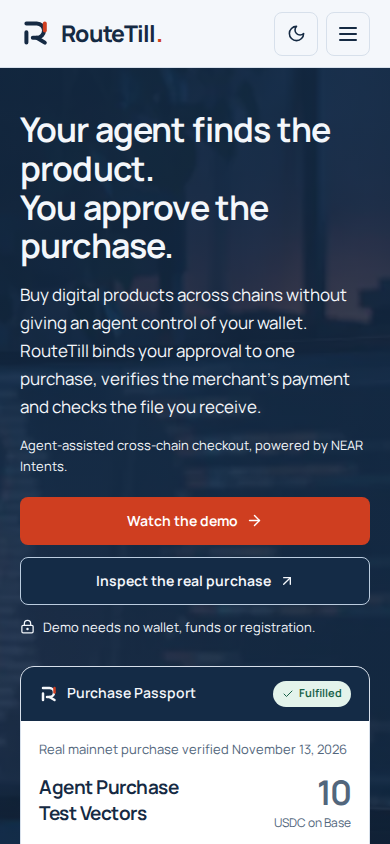
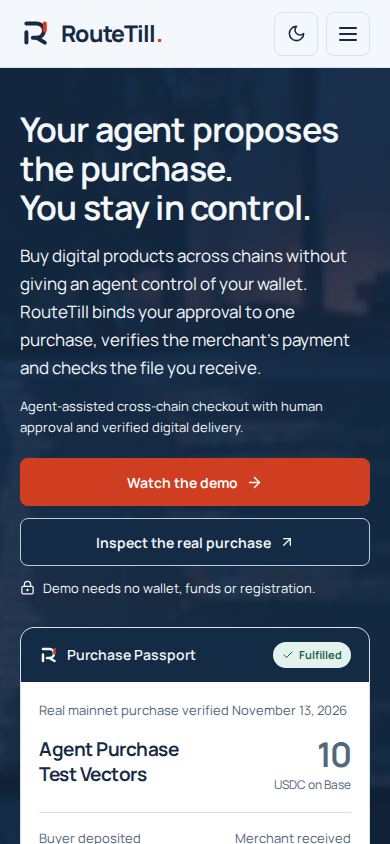
Refine purchase-control hero and prioritize judge quickstart

Changed region(s): [[0.0308, 0.1232, 0.9538, 1.0]]

diff --git a/src/app/page.tsx b/src/app/page.tsx
@@ -17,12 +17,12 @@ export default function Home(){
   ['Which wallets and routes are supported?','Direct injected Rabby, MetaMask and OKX support does not require WalletConnect. Compatible EIP-6963 providers can also be selected. The independently verified route is native Arbitrum USDC to native Base USDC. ETH gas is additional. Unrestricted live payment preparation remains disabled.']
  ];
  return <>
- <section className="hero-workspace"><Image className="workspace-image" src="/images/developer-workspace.webp" alt="" fill preload sizes="100vw"/><div className="hero container"><div className="hero-copy"><h1>Your agent finds the product.<br/>You approve the purchase.</h1><p>Buy digital products across chains without giving an agent control of your wallet. RouteTill binds your approval to one purchase, verifies the merchant’s payment and checks the file you receive.</p><p className="hero-descriptor">Agent-assisted cross-chain checkout, powered by NEAR Intents.</p><div className="actions"><Link className="button" href="/demo">Watch the demo<ArrowRight size={17}/></Link><Link className="button button-quiet" href={verifiedPurchase.passportUrl}>Inspect the real purchase<ArrowUpRight size={16}/></Link></div><p className="hero-note"><LockKeyhole size={15}/>Demo needs no wallet, funds or registration.</p><div className="hero-promise"><span>Precise human approval</span><span>Verified merchant receipt</span><span>One digital entitlement</span></div></div><VerifiedPassport/></div></section>
+ <section className="hero-workspace"><Image className="workspace-image" src="/images/developer-workspace.webp" alt="" fill preload sizes="100vw"/><div className="hero container"><div className="hero-copy"><h1>Your agent proposes the purchase.<br/>You stay in control.</h1><p>Buy digital products across chains without giving an agent control of your wallet. RouteTill binds your approval to one purchase, verifies the merchant’s payment and checks the file you receive.</p><p className="hero-descriptor">{positioning.definition}</p><div className="actions"><Link className="button" href="/demo">Watch the demo<ArrowRight size={17}/></Link><Link className="button button-quiet" href={verifiedPurchase.passportUrl}>Inspect the real purchase<ArrowUpRight size={16}/></Link></div><p className="hero-note"><LockKeyhole size={15}/>Demo needs no wallet, funds or registration.</p><div className="hero-promise"><span>Precise human approval</span><span>Verified merchant receipt</span><span>One digital entitlement</span></div></div><VerifiedPassport/></div></section>
  <div className="judge-quickstart container"><strong>Have 30 seconds?</strong><p>Explore a no-funds purchase, run five security checks, and inspect a real Purchase Passport.</p><Link href={checkoutHref} className="text-link">Start here<ArrowRight size={16}/></Link></div>
  <section className="container purchase-overview" aria-label="One purchase, from proposal to delivery"><h2>{positioning.promise}</h2><ol><li><strong>Agent proposes</strong><span>The merchant’s dataset and price.</span></li><li><strong>You authorize</strong><span>Exact terms, then a separate wallet confirmation.</span></li><li><strong>NEAR Intents routes</strong><span>Arbitrum USDC → Base USDC.</span></li><li><strong>RouteTill verifies</strong><span>Merchant receipt and matching file.</span></li><li><strong>Both sides receive</strong><span>Merchant paid; buyer gets access and Passport.</span></li></ol></section><section className="container product-section" id="how-it-works"><div className="section-title" data-proof-reveal><h2>Meet John</h2><p>An illustrative buyer, one purchase, two chains. See how John stays in control; inspect the separate recorded mainnet result below.</p></div><JohnStory/></section>
  <section className="container dataset-invitation"><div><p className="muted">Explore the actual product</p><h2>Agent Purchase Test Vectors</h2><p>A 1,613-byte developer dataset with seven original test cases. The merchant lists the file, sets the price and chooses a receiving wallet. The buyer controls the source-spending limit in the same purchase.</p></div><div><strong>10 USDC <span>on Base</span></strong><Link className="button" href={checkoutHref}>Try buyer checkout<ArrowRight size={16}/></Link><Link className="text-link" href="https://routetill.vercel.app/checkout/4c78ae96-c331-42ba-87a3-4445709c9f3d?mode=live">View the production product<ArrowUpRight size={15}/></Link><small>The public walkthrough uses no funds. General production payment preparation is disabled.</small></div></section><section className="verified-section" id="verified-purchase"><div className="container product-section"><div className="section-title" data-proof-reveal><h2>One real payment.<br/>Every step accounted for.</h2><p>This purchase was fulfilled on November 13, 2026. It is genuine mainnet evidence, separate from the explanatory scene animation and the no-funds security checks.</p></div><MainnetEvidence/></div></section>
  <section className="challenge-section" id="judge-challenge"><div className="container"><div className="section-title" data-proof-reveal><h2>Break-It Lab.<br/>Five checks. Clear outcomes.</h2><p>See how RouteTill protects purchase approvals, catches unauthorized changes and prevents duplicate delivery. No real funds are needed.</p></div><ChallengePreview labHref={labHref}/><div className="challenge-footnote"><span><ShieldCheck size={17}/>Actual policy and database handlers</span><span><LockKeyhole size={17}/>Controlled scenarios. No real funds.</span><Link className="text-link" href="/docs#judge-demo">How to reproduce the checks<ArrowUpRight size={15}/></Link></div></div></section>
- <section className="route-section"><div className="container route-section-inner"><div><h2>NEAR Intents moves the payment.<br/>RouteTill checks the receipt.</h2><p>The buyer and merchant do not need to hold funds on the same chain. An exact-output quote prepares the route. Only independently qualified merchant settlement permits delivery.</p><Link href="/docs#near" className="text-link">Inspect the NEAR Intents integration<ArrowUpRight size={16}/></Link></div><div className="route-map" data-proof-reveal aria-label="Verified Arbitrum USDC to Base USDC payment route"><div><span>Buyer’s source</span><strong>Arbitrum One</strong><p>Native USDC</p></div><div className="route-connector"><Route size={21}/><span>NEAR Intents</span><ArrowRight size={18}/></div><div><span>Merchant’s receipt</span><strong>Base</strong><p>Native USDC</p></div><p className="route-limit">One implemented verification route. Source ETH gas is additional. A quote alone is not settlement evidence.</p></div></div></section>
+ <section className="route-section"><div className="container route-section-inner"><div><h2>NEAR Intents moves the payment.<br/>RouteTill checks the receipt.</h2><p>The buyer and merchant do not need to hold funds on the same chain. NEAR Intents executes the supported native Arbitrum USDC → native Base USDC route. RouteTill independently checks the merchant’s payment and the matching digital artifact before delivery.</p><Link href="/docs#near" className="text-link">Inspect the NEAR Intents integration<ArrowUpRight size={16}/></Link></div><div className="route-map" data-proof-reveal aria-label="Verified Arbitrum USDC to Base USDC payment route"><div><span>Buyer’s source</span><strong>Arbitrum One</strong><p>Native USDC</p></div><div className="route-connector"><Route size={21}/><span>NEAR Intents</span><ArrowRight size={18}/></div><div><span>Merchant’s receipt</span><strong>Base</strong><p>Native USDC</p></div><p className="route-limit">One implemented verification route. Source ETH gas is additional. A quote alone is not settlement evidence.</p></div></div></section>
  <section className="container product-section" id="proofflow"><div className="section-title" data-proof-reveal><h2>Keep the file.<br/>Keep the evidence.</h2><p>Four connected checks protect one purchase. ProofFlow is RouteTill’s underlying verification engine; the Purchase Passport keeps its evidence inspectable.</p></div><div className="evidence-table-wrap" tabIndex={0} role="region" aria-label="Purchase evidence comparison; scroll horizontally on small screens"><table className="evidence-table"><thead><tr><th>What you can inspect</th><th>How to check it</th><th>What it establishes</th></tr></thead><tbody><tr><th scope="row">Only the purchase you approved</th><td>Exact seller, file, cap, refund address and deadline</td><td>Single-use application authorization; wallet transfer confirmed separately</td></tr><tr><th scope="row">The intended merchant gets paid</th><td>Provider outcome plus independent token receipt and finality checks</td><td>Provider SUCCESS alone cannot unlock delivery</td></tr><tr><th scope="row">Access to the agreed file</th><td>One durable entitlement and matching SHA-256</td><td>Repeat authorized downloads; exact bytes, not content quality</td></tr><tr><th scope="row">An inspectable Purchase Passport</th><td>Signed links between approval, payment evidence and file</td><td>Issuer record integrity; settlement still needs independent chain checks</td></tr></tbody></table></div><div className="evidence-actions"><p><ShieldCheck size={18}/>The real Passport passed all 12 independent verification checks.</p><Link className="text-link" href={verifiedPurchase.passportUrl}>Open the verified purchase<ArrowRight size={16}/></Link></div></section>
  <section className="container faq-section"><div><h2>Before you try it.</h2><p>Plain answers, with the limits included.</p></div><div className="faq-list">{faq.map(([question,answer])=><details key={question}><summary>{question}<span aria-hidden="true">+</span></summary><p>{answer}</p></details>)}</div></section>
  <section className="container final-invitation"><div><h2>See the checks.<br/>Inspect the proof.</h2><p>A safe demo to explore. A real purchase to verify.</p></div><Link href={labHref} className="button">Try Break-It Lab<ArrowRight size={17}/></Link></section>

diff --git a/tests/browser/journeys.spec.ts b/tests/browser/journeys.spec.ts
@@ -9,7 +9,7 @@ function localJudgeCode(){if(process.env.JUDGE_ACCESS_CODE)return process.env.JU
 async function capture(page:any,options:any){await page.evaluate(async()=>{(document.activeElement as HTMLElement)?.blur();window.scrollTo({top:0,left:0,behavior:'instant'});await new Promise(requestAnimationFrame);});await page.screenshot(options);}
 async function judge(page:any){await page.goto('/lab');await expect(page.getByRole('heading',{name:'Break-It Lab',exact:true})).toBeVisible();await expect(page.getByRole('button',{name:'Run 5 security checks'})).toBeEnabled();}
 test('landing navigation, light/dark, responsive layout and keyboard access',async({page})=>{
- await page.goto('/');await expect(page.getByRole('heading',{name:'Your agent finds the product. You approve the purchase.'})).toBeVisible();await capture(page,{path:captures+'/home-desktop.png',fullPage:true});
+ await page.goto('/');await expect(page.getByRole('heading',{name:'Your agent proposes the purchase. You stay in control.'})).toBeVisible();await capture(page,{path:captures+'/home-desktop.png',fullPage:true});
  await page.getByRole('button',{name:'Switch to dark mode'}).click();await expect(page.locator('html')).toHaveAttribute('data-theme','dark');await capture(page,{path:captures+'/home-dark.png',fullPage:true});
  await page.getByRole('button',{name:'Switch to light mode'}).click();
  for(const [name,width,height] of [['tablet',768,1024],['mobile',390,844],['small-phone',360,800]] as const){await page.setViewportSize({width,height});await capture(page,{path:`${captures}/home-${name}.png`,fullPage:true});expect(await page.evaluate(()=>document.documentElement.scrollWidth<=innerWidth)).toBe(true);}

diff --git a/README.md b/README.md
@@ -18,23 +18,7 @@ The merchant lists the file, sets the price, chooses a supported receiving walle
 
 **Recorded mainnet result — November 13, 2026:** one funded purchase is FULFILLED. NEAR Intents reported SUCCESS; independent chain observations confirmed exactly 10 native Base USDC to the verified merchant. Normal reconciliation issued one entitlement and one signed Passport. General production payment preparation remains disabled; the public demo sends no funds.
 
-**Demo video:** the revised 99-second narrated Meet John video is rendered for private review. Its public link will be added after owner approval and publication; the older silent video is not presented as current mainnet footage. [Narration and footage plan](docs/DEMO_SCRIPT.md).
-
-## Why NEAR Intents is part of the purchase
-
-The buyer and merchant use different chains in one purchase: the buyer paid from Arbitrum while the merchant received USDC on Base. NEAR Intents provided the cross-chain execution; RouteTill did not replace it with a database payment flag or a home-grown bridge.
-
-| NEAR Intents provides | RouteTill builds around it |
-| --- | --- |
-| Authenticated `POST /v0/quote` with `EXACT_OUTPUT`, native Arbitrum USDC → native Base USDC | [Quote integration](src/integrations/near.ts) binds recipient, refund, assets and exact output to the approved policy and checks input against the spending cap |
-| Provider-signed quote fields, verified with the pinned [official SDK](https://github.com/defuse-protocol/one-click-sdk-typescript) | Signature verification plus separate validation of amounts, freshness and terms; optional response metadata is not assumed signed |
-| Executable quote-specific deposit address and payment routing | [Approval consumption/execution](src/services/orders.ts), [single-order guard](src/core/live-trial.ts), and [transaction preflight](src/services/payment-preflight.ts); the human confirms the exact ERC-20 transfer in their wallet |
-| `GET /v0/status` execution status and transaction references | [Reconciliation](src/services/reconcile.ts) requires SUCCESS and [independently inspects chain receipts](src/integrations/settlement.ts): correct token, merchant, exact amount, canonical block, at least 12 confirmations and finalized Base block; an additional reference must qualify as an origin-chain refund |
-| Cross-chain transfer execution | [Transactional delivery](src/services/fulfillment.ts) creates one entitlement, checks the artifact digest and issues a signed Passport; missing or ambiguous settlement evidence prevents delivery |
-
-Official documentation: [quote API](https://docs.near-intents.org/api-reference/oneclick/request-a-swap-quote), [quote signatures](https://docs.near-intents.org/integration/distribution-channels/1click-api/verify-quote-signature), [execution status](https://docs.near-intents.org/api-reference/oneclick/check-swap-execution-status). [Implementation/evidence notes](docs/NEAR_PROOF.md).
-
-This project does not deploy its own NEAR smart contract or implement Chain Signatures, NEAR AI inference or AP2 compatibility. The deterministic example agent proposes purchases; it cannot approve or spend autonomously.
+**Demo video:** final selection and publication await owner approval. No final public video URL has been provided. Existing private review cuts are not presented as the published final demo. [Current video handoff](docs/VIDEO_HANDOFF.md) · [Historical script](docs/DEMO_SCRIPT.md).
 
 ## Judges: Start Here
 
@@ -58,6 +42,22 @@ No wallet, registration or owner code is needed for A or B. Merchant and agent a
 1. **DO →** Open the [genuine Purchase Passport](https://routetill.vercel.app/passport/655d4cc9-0eaf-41b7-a7bf-05fc73286eea?mode=live), inspect its explorer links and the [public FULFILLED verification manifest](docs/evidence/mainnet-655d4cc9-0eaf-41b7-a7bf-05fc73286eea/verification-manifest.json). **SEE →** the real Arbitrum transfer, NEAR Intents SUCCESS, exact Base merchant receipt, one entitlement and matching delivered artifact.
 2. **DO →** Select **Check original record**, then **Test a modified recipient**. **SEE →** original integrity passes and modified evidence fails. Use the standalone commands below for independent chain verification: a browser signature check alone does not establish settlement.
 3. **DO →** Follow the [reproduction instructions](docs/evidence/mainnet-655d4cc9-0eaf-41b7-a7bf-05fc73286eea/REPRODUCE.txt). **SEE →** the signed Passport and the saved 12-check independent result. The [original order page](https://routetill.vercel.app/orders/655d4cc9-0eaf-41b7-a7bf-05fc73286eea?mode=live) and actual entitled download require the purchasing account; the public manifest, Passport and CC0 artifact copy require no buyer credentials.
+
+## Why NEAR Intents is part of the purchase
+
+The buyer and merchant use different chains in one purchase: the buyer paid from Arbitrum while the merchant received USDC on Base. NEAR Intents provided the cross-chain execution; RouteTill did not replace it with a database payment flag or a home-grown bridge.
+
+| NEAR Intents provides | RouteTill builds around it |
+| --- | --- |
+| Authenticated `POST /v0/quote` with `EXACT_OUTPUT`, native Arbitrum USDC → native Base USDC | [Quote integration](src/integrations/near.ts) binds recipient, refund, assets and exact output to the approved policy and checks input against the spending cap |
+| Provider-signed quote fields, verified with the pinned [official SDK](https://github.com/defuse-protocol/one-click-sdk-typescript) | Signature verification plus separate validation of amounts, freshness and terms; optional response metadata is not assumed signed |
+| Executable quote-specific deposit address and payment routing | [Approval consumption/execution](src/services/orders.ts), [single-order guard](src/core/live-trial.ts), and [transaction preflight](src/services/payment-preflight.ts); the human confirms the exact ERC-20 transfer in their wallet |
+| `GET /v0/status` execution status and transaction references | [Reconciliation](src/services/reconcile.ts) requires SUCCESS and [independently inspects chain receipts](src/integrations/settlement.ts): correct token, merchant, exact amount, canonical block, at least 12 confirmations and finalized Base block; an additional reference must qualify as an origin-chain refund |
+| Cross-chain transfer execution | [Transactional delivery](src/services/fulfillment.ts) creates one entitlement, checks the artifact digest and issues a signed Passport; missing or ambiguous settlement evidence prevents delivery |
+
+Official documentation: [quote API](https://docs.near-intents.org/api-reference/oneclick/request-a-swap-quote), [quote signatures](https://docs.near-intents.org/integration/distribution-channels/1click-api/verify-quote-signature), [execution status](https://docs.near-intents.org/api-reference/oneclick/check-swap-execution-status). [Implementation/evidence notes](docs/NEAR_PROOF.md).
+
+This project does not deploy its own NEAR smart contract or implement Chain Signatures, NEAR AI inference or AP2 compatibility. The deterministic example agent proposes purchases; it cannot approve or spend autonomously.
 
 ## What connects the purchase
 
@@ -165,7 +165,7 @@ npm audit
 npm run test:browser
 ```
 
-**Communication pass checks:** **224 unit/integration tests**, **12 Playwright journeys**, typecheck, lint and production build passed. [Current scope and verification](docs/COMMUNICATION_REVIEW.md). Earlier release results remain dated in the reports below. The prior credential-free clean-clone run at `cca1da5` passed 224 tests. Hosted fresh-session checkout/delivery and all five Neon-backed Lab checks passed separately; they are not inferred from local PGlite. The full real Neon concurrency/rollback/reconnect report is [here](docs/evidence/neon-verification.json). [Dated results and historical failures](docs/TESTING.md) · [final engineering/security review](docs/FINAL_AUDIT.md) · [guided-demo and revised-video checks](docs/PRESENTATION_QA.md) · [README reproduction results](docs/README_VERIFICATION.md).
+**Communication pass checks:** **224 unit/integration tests**, **12 Playwright journeys**, typecheck, lint and production build passed. [Current scope and verification](docs/COMMUNICATION_REVIEW.md). Earlier release results remain dated in the reports below. The prior credential-free clean-clone run at `cca1da5` passed 224 tests. Hosted fresh-session checkout/delivery and all five Neon-backed Lab checks passed separately; they are not inferred from local PGlite. The full real Neon concurrency/rollback/reconnect report is [here](docs/evidence/neon-verification.json). [Dated results and historical failures](docs/TESTING.md) · [final engineering/security review](docs/FINAL_AUDIT.md) · [historical guided-demo/video checks](docs/PRESENTATION_QA.md) · [README reproduction results](docs/README_VERIFICATION.md).
 
 Browser tests require Chromium: run `npx playwright install chromium` once if absent, keep the local server running, then `npm run test:browser`. On minimal Linux hosts, `npx playwright install --with-deps chromium` also installs required system libraries and may need administrator rights ([Playwright documentation](https://playwright.dev/docs/browsers#install-system-dependencies)). Set `PLAYWRIGHT_BASE_URL=http://localhost:3005` for the alternate port. Physical devices, Safari/Firefox and real WalletConnect pairing were not tested; wallet simulations are identified as mocks. A network/RPC failure is an unavailable check, never proof of settlement.
 
@@ -231,7 +231,7 @@ Exact dependency versions are pinned by the root and video lockfiles; upstream l
 - RouteTill is not custodial escrow. A human explicitly approves the purchase and personally confirms any wallet transfer. ETH gas is additional to the USDC spending cap.
 - Provider SUCCESS associates a deposit with reported destination references. Independent RPC observations verify the merchant transfer; that association is not a cryptographic causal proof. Signatures authenticate application assertions, not database-wide uniqueness or product quality. Obtain the issuer key independently and choose trusted RPCs.
 - Buyer order pages and entitled downloads require the purchasing session. Judges can inspect the public Passport, sanitized evidence and CC0 file copy without owner credentials. Guest accounts cannot administer merchants or reach production data.
-- The narrated video awaits owner review and public publication. The owner will publish the X post and submit the form personally. [Copy-ready submission/X drafts](docs/SUBMISSION.md) contain no invented personal details.
+- Final video selection and its public link await owner approval. The owner will publish the X post and submit the form personally. [Copy-ready submission/X drafts](docs/SUBMISSION.md) contain no invented personal details.
 - Keep the repository public through judging and both demos online through **November 18**, preferably **November 25, 2026**; ongoing hosting is an owner obligation, not a future uptime guarantee.
 - If **SilentSourcing** is independently submitted, both READMEs must name the other project under Q-015. Its submission is not asserted here; confirm and add reciprocal disclosure before submitting a second project.
 
